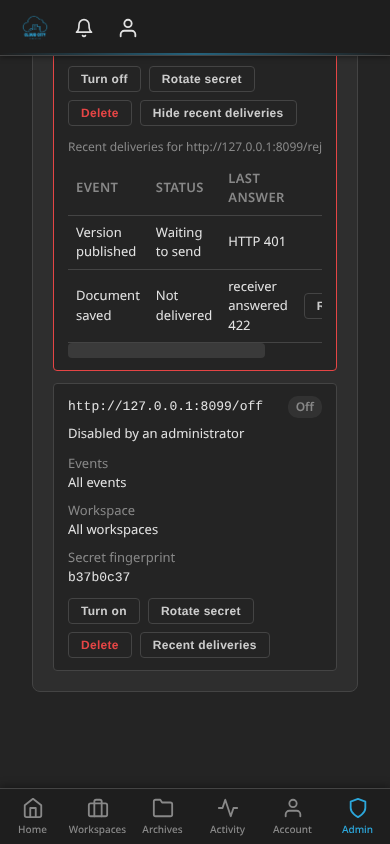
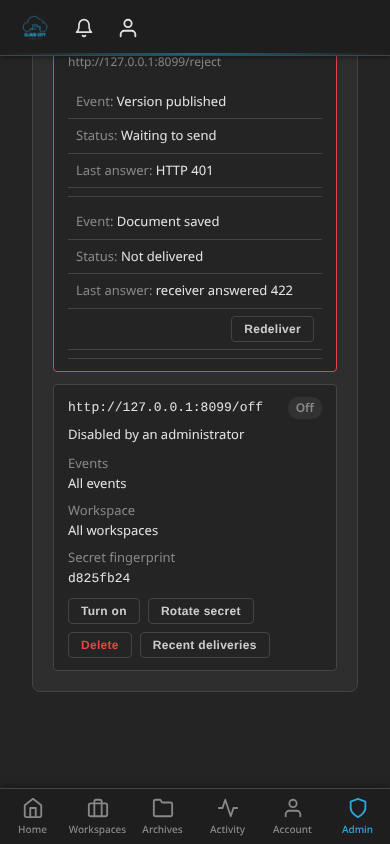
W6-CDX-15 review: the phone capture with the stacked deliveries

diff --git a/docs/research/w6-cdx-15-webhooks-console-2026-10-11/README.md b/docs/research/w6-cdx-15-webhooks-console-2026-10-11/README.md
@@ -7,9 +7,8 @@ stalled), and `/off` was turned off in the admin API.
 - `after/cdx15-webhooks-desktop.png` (1280 wide): Delivering, Stalled (with the 401 explanation,
   the next try and the deliveries expanded, with a Redeliver on the dead row), and Off.
 - `after/cdx15-webhooks-phone-bottom.png` (390 wide, scrolled to the bottom): the sidebar is a row
-  above the content, the last card clears the fixed bottom nav, and the deliveries table keeps the
-  event, status and last answer. The Redeliver button sits at the table's right edge and is reached
-  by scrolling the table sideways; it is not fully on screen at this width.
+  above the content, the last card clears the fixed bottom nav, and each delivery is a stacked block
+  whose cells name their column, with Redeliver on its own line inside the card.
 
 Both were taken with a headless Chrome driven over the DevTools protocol, logged in as the
 instance admin, after the stalled card's deliveries were expanded. The script is not kept here
